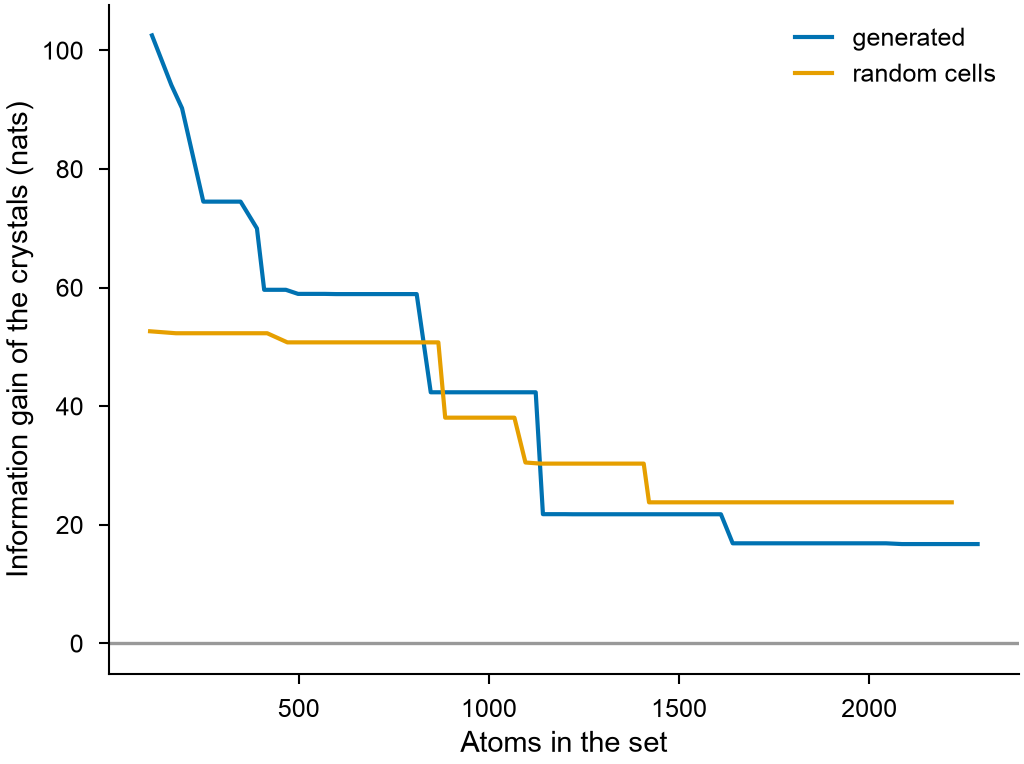
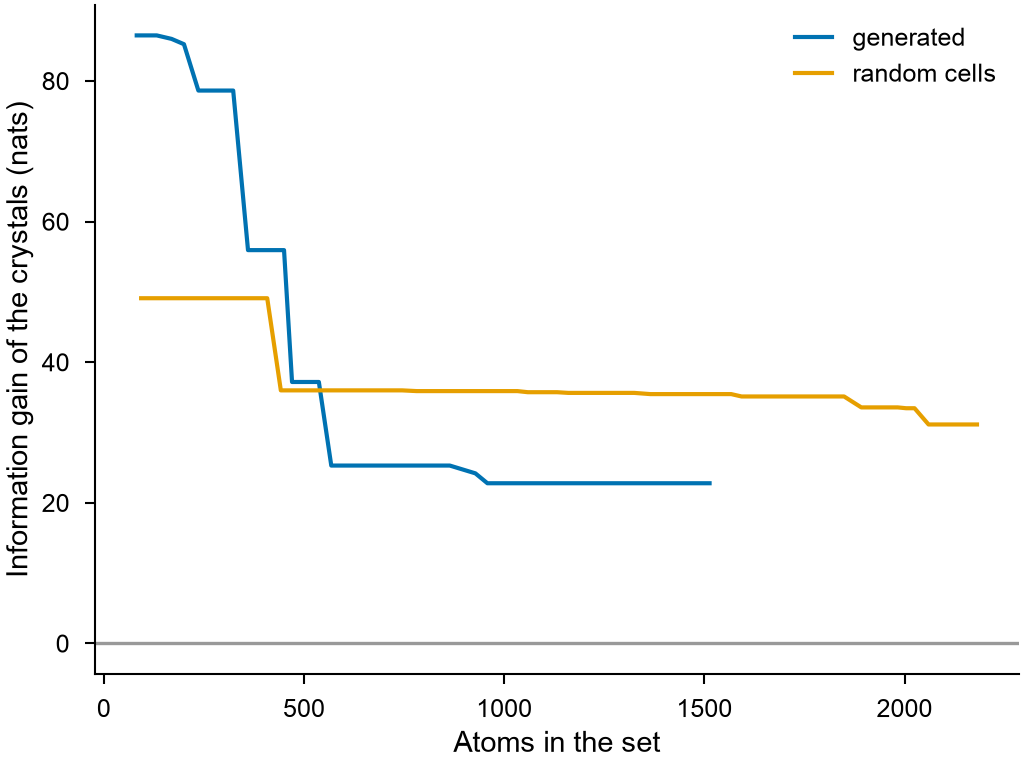
The page of generated structures: slabs as thick as the reach, the config_type of each structure, and its picture with them

diff --git a/docs/user-guide/mlip/generation.md b/docs/user-guide/mlip/generation.md
@@ -62,8 +62,9 @@ by the median [information gain](coverage.md) of their atoms: the lower,
 the better the set covers them, though no structure was made from a
 crystal. The sets hold cells of 2 to 32 atoms, a fifth of the random cells
 slabs or clusters. The first structures go to the edges of the volumes and
-shapes allowed; from about 1200 atoms on, the set covers the crystals better
-than the random cells, 17 nats against 24 at 2200 atoms.*
+shapes allowed; from about 600 atoms on, the set covers the crystals better
+than the random cells, 23 nats against 36 at 1500 atoms, where the
+generation stops by itself.*
 
 ## How it works
 
@@ -75,12 +76,16 @@ several elements, its composition is drawn uniformly over all compositions,
 and each atom's element from it. The atoms are placed at random, no two
 closer than `closest` times the sum of their covalent radii, also across the
 periodic boundaries, or, in cells too dense for that, on a jittered grid.
-A fraction `vacuum` of the cells then become slabs or clusters, half of
-each: the box is widened along its third edge, or along all three, so that
-the atoms are 10 Å farther from their images across it, or more when the
-reach of the descriptor is longer. The atoms stay in the box they were
-placed in, the box of the atoms, and their surfaces give the set the
-environments of atoms with neighbors on one side only.
+A fraction `vacuum` of the cells are slabs or clusters, half of each. The
+box of a slab is first stretched along its third edge and narrowed along the
+others, its volume kept, until it is as thick as the reach of the
+descriptor, 2.4 times twice the largest covalent radius (5.8 Å for
+aluminium), so that the atoms of its surfaces have others beneath them. Once
+the atoms are placed, the box is widened along its third edge, or along all
+three for a cluster, so that the atoms are 10 Å farther from their images
+across it, or more when the reach of the descriptor is longer. The atoms stay
+in the box they were placed in, the box of the atoms, and their surfaces
+give the set the environments of atoms with neighbors on one side only.
 
 The points of the set are the descriptors of its atoms (`per="atom"`), or
 their mean in each structure (`per="structure"`), each value divided by its
@@ -91,8 +96,9 @@ structure is moved, one of:
 
 - in two moves out of ten, the box of the atoms strained by a symmetric
   strain of components of 0.03, the atoms with it, when the volume per atom
-  stays within `volume` and no face of the box is narrower than a quarter of
-  its longest edge; the vacuum keeps its width;
+  stays within `volume`, no face of the box is narrower than a quarter of
+  its longest edge and a slab stays as thick as the reach; the vacuum keeps
+  its width;
 - with atoms of several elements, in one move out of ten, the elements of
   two of them swapped;
 - in the other moves, an atom displaced by a Gaussian of 0.3 times the mean
@@ -129,7 +135,7 @@ of the last 50 candidates were kept, or when 100 in a row were not.
 | `count` | int32 | | | the most structures |
 | `volume` | tuple of float64 | | Å³ | the smallest and largest volume per atom of the box of the atoms, without vacuum, such as half and twice that of the crystal |
 | `atoms` | tuple of int32 | (2, 32) | | the fewest and most atoms of a structure, with as many structures of each doubling of the number of atoms |
-| `vacuum` | float64 | 0.2 | | the fraction of the random cells that are slabs, with vacuum across the third edge, or clusters, with vacuum across all three, half of each; 0 for periodic cells only |
+| `vacuum` | float64 | 0.2 | | the fraction of the random cells that are slabs, at least as thick as the reach of the descriptor, with vacuum across the third edge, or clusters, with vacuum across all three, half of each; 0 for periodic cells only |
 | `closest` | float64 | 0.75 | | the shortest distance of two atoms, as a fraction of the sum of their covalent radii ([Cordero et al. 2008](../../reference/references.md#cordero2008)) |
 | `per` | str | `"atom"` | | the points of the set: `"atom"`, the descriptor of each atom; `"structure"`, their mean in each structure |
 | `steps` | int32 | 10 | | the moves tried on each structure per atom; 0 keeps the random cells that raise the entropy |
@@ -149,8 +155,10 @@ should learn.
 A list of systems in the order they were kept, at most `count`: periodic
 cells with an `element` column, the atoms wrapped into the box, without
 energies or forces; a slab or cluster is a periodic cell whose atoms leave
-the vacuum free. The first n structures make a set of their own, so that
-sets of several sizes come from one generation.
+the vacuum free. The `config_type` in the `info` of each, `"bulk"`, `"slab"`
+or `"cluster"`, says which it is, to group them, such as to hold out a part
+of each group for validation. The first n structures make a set of their
+own, so that sets of several sizes come from one generation.
 
 ## Errors
 
